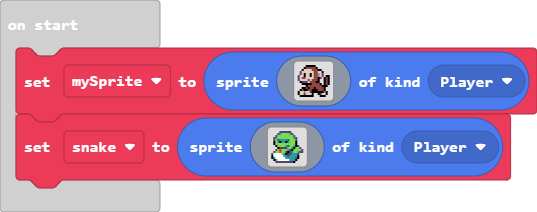
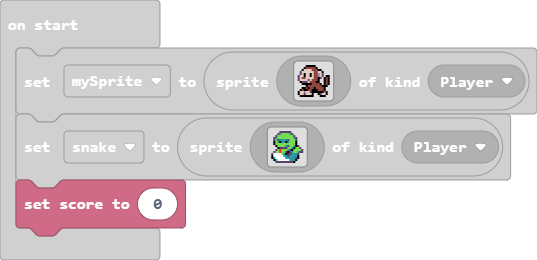
test

diff --git a/main.ts b/main.ts
@@ -34,3 +34,4 @@ let snake = sprites.create(img`
     . f 6 1 1 1 1 1 1 6 6 6 f . . . 
     . . c c c c c c c c c f . . . . 
     `, SpriteKind.Player)
+info.setScore(0)
